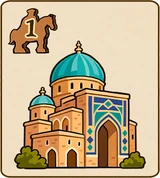
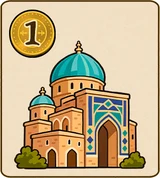
Rectors 5a/5b; A1 requires a played Book; Samarkand 1 coin, Kashgar 3 moves; swap Lisboa/Coimbra
Claude-Session: https://claude.ai/code/session_01SHozX5uoHGRuhfGKpzG4bC

Changed region(s): [[0.0312, 0.0281, 0.375, 0.3371]]

diff --git a/i18n.js b/i18n.js
@@ -18,12 +18,12 @@ const FR={
  CE_paris:'1 Livre par œuvre d\'art de ton type majoritaire',CE_cambridge:'2 pièces ou 2 influence, puis promotion payante',CE_oxford:'3 pièces ou 3 influence, puis promotion payante',
  CE_lisboa:'pioche 3 Étudiants, places-en 1 en Professeur',CE_coimbra:'active tous tes Professeurs d\'un type',CE_valladolid:'pioche 1 Livre',CE_salamanca:'pioche 2 Livres, puis défausses-en 1',CE_barcelona:'pioche 2 Livres',
  CE_heidelberg:'1 pièce ou 1 influence par personnage Bronze',CE_vienna:'2 pièces ou 2 influence par personnage Argent',CE_praha:'3 pièces ou 3 influence par personnage Or',
- CE_thessaloniki:'active tous tes Émérites',CE_constantinople:'rétrograde un Émérite pour 1 PV',CE_sale:'défausse un de tes Étudiants',CE_meknes:'active la capacité d\'un de tes Étudiants',CE_fes:'recrute n\'importe quel Étudiant',CE_samarkand:'1 déplacement',CE_kashgar:'2 déplacements',CE_beijing:'copie 2 Villes différentes (case 11 max.)',
+ CE_thessaloniki:'active tous tes Émérites',CE_constantinople:'rétrograde un Émérite pour 1 PV',CE_sale:'défausse un de tes Étudiants',CE_meknes:'active la capacité d\'un de tes Étudiants',CE_fes:'recrute n\'importe quel Étudiant',CE_samarkand:'1 pièce',CE_kashgar:'3 déplacements',CE_beijing:'copie 2 Villes différentes (case 11 max.)',
  R_1a:'Recruter un Étudiant avec une œuvre d\'art : +1 pièce et +1 influence',R_1b:'Recruter un Étudiant Bronze : +3 déplacements',
  R_2a:'Défausser un Livre donne 1 pièce + 1 influence + 1 déplacement à la place de son effet',R_2b:'Pioche 1 Livre. Tu peux dépenser des pièces comme de l\'influence et inversement',
  R_3a:'Atteindre une Ville : pioche 1 Livre',R_3b:'Compte comme un personnage supplémentaire du type et du niveau de ton choix, à tout moment selon tes besoins',
- R_4a:'Promotion : coût en pièces réduit de 2',R_4b:'Recrutement : coût en influence réduit de 2',
- O_A1:'2 personnages de chaque type',O_A2:'6 personnages du même type',O_B1:'1 parcours complété + 6 pièces + 6 influence',O_B2:'2 parcours complétés',
+ R_4a:'Promotion : coût en pièces réduit de 2',R_4b:'Recrutement : coût en influence réduit de 2',R_5a:'Prends gratuitement un Étudiant de la rangée : applique son effet immédiat, sans Activation ni Promotion',R_5b:'5 déplacements + 1 promotion (en payant son coût)',
+ O_A1:'1 Livre joué + 2 personnages de chaque type',O_A2:'6 personnages du même type',O_B1:'1 parcours complété + 6 pièces + 6 influence',O_B2:'2 parcours complétés',
  O_C1:'5 Professeurs',O_C2:'3 Émérites',O_D1:'5 œuvres d\'art différentes',O_D2:'7 œuvres d\'art',
  B_1:'1 Étudiant + 1 Professeur + 1 Émérite Artistes',B_2:'1 Étudiant + 1 Professeur + 1 Émérite Marchands',B_3:'1 Étudiant + 1 Professeur + 1 Émérite Nobles',B_4:'1 Étudiant + 1 Professeur + 1 Émérite Religieux',
  B_5:'1 Professeur de chaque type',B_6:'Franchir 5 Villes avec tes Voyageurs',B_7:'1 Professeur Argent + 1 Émérite Or',B_8:'1 Professeur Or + 1 Émérite Argent',
@@ -103,12 +103,12 @@ const EN={
  CE_paris:'1 Book per Work of Art of your most common type',CE_cambridge:'2 coins or 2 influence, then a paid promotion',CE_oxford:'3 coins or 3 influence, then a paid promotion',
  CE_lisboa:'draw 3 Students, place 1 as a Professor',CE_coimbra:'activate all your Professors of one type',CE_valladolid:'draw 1 Book',CE_salamanca:'draw 2 Books, then discard 1',CE_barcelona:'draw 2 Books',
  CE_heidelberg:'1 coin or 1 influence per Bronze character',CE_vienna:'2 coins or 2 influence per Silver character',CE_praha:'3 coins or 3 influence per Gold character',
- CE_thessaloniki:'activate all your Emeritus',CE_constantinople:'demote an Emeritus for 1 VP',CE_sale:'discard one of your Students',CE_meknes:'activate the ability of one of your Students',CE_fes:'hire any Student',CE_samarkand:'1 move',CE_kashgar:'2 moves',CE_beijing:'copy 2 different Cities (step 11 max.)',
+ CE_thessaloniki:'activate all your Emeritus',CE_constantinople:'demote an Emeritus for 1 VP',CE_sale:'discard one of your Students',CE_meknes:'activate the ability of one of your Students',CE_fes:'hire any Student',CE_samarkand:'1 coin',CE_kashgar:'3 moves',CE_beijing:'copy 2 different Cities (step 11 max.)',
  R_1a:'Hire a Student with a Work of Art: +1 coin and +1 influence',R_1b:'Hire a Bronze Student: +3 movements',
  R_2a:'Discarding a Book gives 1 coin + 1 influence + 1 movement instead of its effect',R_2b:'Draw 1 Book. You may spend coins as influence and vice versa',
  R_3a:'Reach a City: draw 1 Book',R_3b:'Counts as an extra character of the type and level of your choice, changing at any time as you need',
- R_4a:'Promotion: coin cost reduced by 2',R_4b:'Hiring: influence cost reduced by 2',
- O_A1:'2 characters of each type',O_A2:'6 characters of the same type',O_B1:'1 completed journey + 6 coins + 6 influence',O_B2:'2 completed journeys',
+ R_4a:'Promotion: coin cost reduced by 2',R_4b:'Hiring: influence cost reduced by 2',R_5a:'Take a Student from the row for free: apply its immediate effect, without Activation or Promotion',R_5b:'5 moves + 1 promotion (paying its cost)',
+ O_A1:'1 Book played + 2 characters of each type',O_A2:'6 characters of the same type',O_B1:'1 completed journey + 6 coins + 6 influence',O_B2:'2 completed journeys',
  O_C1:'5 Professors',O_C2:'3 Emeritus',O_D1:'5 different Works of Art',O_D2:'7 Works of Art',
  B_1:'1 Student + 1 Professor + 1 Emeritus, all Artists',B_2:'1 Student + 1 Professor + 1 Emeritus, all Merchants',B_3:'1 Student + 1 Professor + 1 Emeritus, all Nobles',B_4:'1 Student + 1 Professor + 1 Emeritus, all Religious',
  B_5:'1 Professor of each type',B_6:'Cross 5 Cities with your Travelers',B_7:'1 Silver Professor + 1 Gold Emeritus',B_8:'1 Gold Professor + 1 Silver Emeritus',
@@ -183,12 +183,12 @@ const IT={
  CE_paris:'1 Libro per ogni Opera d\'arte del tuo tipo più numeroso',CE_cambridge:'2 monete o 2 influenza, poi una promozione a pagamento',CE_oxford:'3 monete o 3 influenza, poi una promozione a pagamento',
  CE_lisboa:'pesca 3 Studenti, mettine 1 come Professore',CE_coimbra:'attiva tutti i tuoi Professori di un tipo',CE_valladolid:'pesca 1 Libro',CE_salamanca:'pesca 2 Libri, poi scartane 1',CE_barcelona:'pesca 2 Libri',
  CE_heidelberg:'1 moneta o 1 influenza per personaggio di Bronzo',CE_vienna:'2 monete o 2 influenza per personaggio d\'Argento',CE_praha:'3 monete o 3 influenza per personaggio d\'Oro',
- CE_thessaloniki:'attiva tutti i tuoi Emeriti',CE_constantinople:'retrocedi un Emerito per 1 PV',CE_sale:'scarta uno dei tuoi Studenti',CE_meknes:'attiva l\'abilità di uno dei tuoi Studenti',CE_fes:'assumi uno Studente qualsiasi',CE_samarkand:'1 spostamento',CE_kashgar:'2 spostamenti',CE_beijing:'copia 2 Città diverse (casella 11 max.)',
+ CE_thessaloniki:'attiva tutti i tuoi Emeriti',CE_constantinople:'retrocedi un Emerito per 1 PV',CE_sale:'scarta uno dei tuoi Studenti',CE_meknes:'attiva l\'abilità di uno dei tuoi Studenti',CE_fes:'assumi uno Studente qualsiasi',CE_samarkand:'1 moneta',CE_kashgar:'3 spostamenti',CE_beijing:'copia 2 Città diverse (casella 11 max.)',
  R_1a:'Assumi uno Studente con un\'Opera d\'arte: +1 moneta e +1 influenza',R_1b:'Assumi uno Studente di Bronzo: +3 movimenti',
  R_2a:'Scartare un Libro dà 1 moneta + 1 influenza + 1 movimento invece del suo effetto',R_2b:'Pesca 1 Libro. Puoi spendere monete come influenza e viceversa',
  R_3a:'Raggiungi una Città: pesca 1 Libro',R_3b:'Conta come un personaggio extra del tipo e del livello che preferisci, in qualsiasi momento secondo le necessità',
- R_4a:'Promozione: costo in monete ridotto di 2',R_4b:'Assunzione: costo in influenza ridotto di 2',
- O_A1:'2 personaggi di ogni tipo',O_A2:'6 personaggi dello stesso tipo',O_B1:'1 viaggio completato + 6 monete + 6 influenza',O_B2:'2 viaggi completati',
+ R_4a:'Promozione: costo in monete ridotto di 2',R_4b:'Assunzione: costo in influenza ridotto di 2',R_5a:'Prendi gratis uno Studente dalla fila: applica il suo effetto immediato, senza Attivazione né Promozione',R_5b:'5 spostamenti + 1 promozione (pagandone il costo)',
+ O_A1:'1 Libro giocato + 2 personaggi di ogni tipo',O_A2:'6 personaggi dello stesso tipo',O_B1:'1 viaggio completato + 6 monete + 6 influenza',O_B2:'2 viaggi completati',
  O_C1:'5 Professori',O_C2:'3 Emeriti',O_D1:'5 Opere d\'arte diverse',O_D2:'7 Opere d\'arte',
  B_1:'1 Studente + 1 Professore + 1 Emerito Artisti',B_2:'1 Studente + 1 Professore + 1 Emerito Mercanti',B_3:'1 Studente + 1 Professore + 1 Emerito Nobili',B_4:'1 Studente + 1 Professore + 1 Emerito Religiosi',
  B_5:'1 Professore di ogni tipo',B_6:'Attraversa 5 Città con i tuoi Viaggiatori',B_7:'1 Professore d\'Argento + 1 Emerito d\'Oro',B_8:'1 Professore d\'Oro + 1 Emerito d\'Argento',

diff --git a/engine.js b/engine.js
@@ -115,7 +115,7 @@ function bookOk(s,p,bid){
 function objOk(s,p,tile){
   const pl=P(s,p);
   switch(tile){
-    case 'A1': return D.TYPES.reduce((a,t)=>a+Math.max(0,2-countTypeRaw(pl,t)),0)<=(wild(pl)?1:0);
+    case 'A1': return pl.played.length>0 && D.TYPES.reduce((a,t)=>a+Math.max(0,2-countTypeRaw(pl,t)),0)<=(wild(pl)?1:0);
     case 'A2': return D.TYPES.some(t=>countType(pl,t)>=6);
     case 'B1': return journeys(pl)>=1 && pl.coins>=6 && pl.infl>=6;
     case 'B2': return journeys(pl)>=2;
@@ -139,7 +139,7 @@ function needs(s,p){
 function objProgress(s,p,tile){
   const pl=P(s,p), cap=x=>Math.max(0,Math.min(1,x));
   switch(tile){
-    case 'A1': return Math.min(1,(D.TYPES.reduce((a,t)=>a+Math.min(2,countTypeRaw(pl,t)),0)+(wild(pl)?1:0))/8);
+    case 'A1': return Math.min(1,(D.TYPES.reduce((a,t)=>a+Math.min(2,countTypeRaw(pl,t)),0)+(wild(pl)?1:0)+(pl.played.length?1:0))/9);
     case 'A2': return cap(Math.max(...D.TYPES.map(t=>countType(pl,t)))/6);
     case 'B1': return cap(Math.max(...pl.trav)/12)*0.5+cap(Math.min(pl.coins,6)/6)*0.25+cap(Math.min(pl.infl,6)/6)*0.25;
     case 'B2': return cap(pl.trav.slice().sort((a,b)=>b-a).slice(0,2).reduce((a,b)=>a+b,0)/24);
@@ -277,7 +277,7 @@ function step(s,t){
     const cand=pl.students.map((co,k)=>[co,k]).filter(([co])=>co.uid===undefined||co.uid!==s.turn.hired);
     if(!cand.length){ abortCtx(s,t.ctx); log(s,M('log_noElim',pn(s,p))); return; }
     ask(s,p,'elim',M('q_elim',pn(s,p)),cand.map(([co,k])=>({label:M('o_elim',cn(co.id)),idx:k,cards:[co.id]})).concat([{label:M('o_noElim'),pass:1}]),t); return; }
-  case 'hire': return hire(s,p,t.slot,t.free);
+  case 'hire': return hire(s,p,t.slot,t.free,t.noAct);
   case 'choice': {
     const c=CARD[t.id]; if(!c.act) return;
     if(c.act!=='any' && !promoOptions(s,p).length){ s.stack.push({k:'activate',p,type:c.act}); pl.nAct=(pl.nAct||0)+1; return; }
@@ -370,7 +370,7 @@ function resolve(s,pd,o){
   case 'reorgPos': { const r=pl[t.row]; const [co]=r.splice(t.idx,1); r.splice(o.pos,0,co); log(s,M('log_reorg',pl.name,cn(co.id),o.pos+1)); return; }
   case 'promo': if(!o.pass) doPromo(s,p,o.to,o.idx,false); return;
   case 'freePromo': doPromo(s,p,'S',o.idx,true); return;
-  case 'take': s.stack.push({k:'hire',p,slot:o.slot,free:true}); return;
+  case 'take': s.stack.push({k:'hire',p,slot:o.slot,free:true,noAct:!!t.noAct}); return;
   case 'elim': { if(o.pass){ abortCtx(s,t.ctx); return; } const [co]=pl.students.splice(o.idx,1); log(s,M('log_elim',pl.name,cn(co.id))); return; }
   case 'choice':
     if(o.act){ s.stack.push({k:'activate',p,type:o.act}); pl.nAct=(pl.nAct||0)+1; }
@@ -403,8 +403,8 @@ function cityEff(s,p,key){
   const pl=P(s,p);
   const push=e=>pushSeq(s,p,e);
   switch(key){
-    case 'samarkand': s.stack.push({k:'move',p,n:1}); break;
-    case 'kashgar': s.stack.push({k:'move',p,n:2}); break;
+    case 'samarkand': pl.coins++; gain(pl,'c',1); break;
+    case 'kashgar': s.stack.push({k:'move',p,n:3}); break;
     case 'beijing': s.stack.push({k:'beijing',p,left:2,used:[]}); break;
     case 'pisa': push([{ci:1}]); break;
     case 'padova': s.stack.push({k:'reorg',p}); break;
@@ -445,10 +445,12 @@ function doPromo(s,p,to,idx,free){
     if(!free) pay(pl,Math.max(0,idx+1-red),8); pl.profs.splice(idx,1); pl.rector={card:co,tile,type:ty}; s.rectSlots[ty]=null;
     log(s,M('log_rector',pl.name,cn(co.id),M('R_'+tile)));
     if(tile==='2b') drawBooks(s,p,1);
+    if(tile==='5a') s.stack.push({k:'take',p,max:6,noAct:true});
+    if(tile==='5b'){ s.stack.push({k:'promo',p}); s.stack.push({k:'move',p,n:5}); }
   }
 }
 
-function hire(s,p,slot,free){
+function hire(s,p,slot,free,noAct){
   const pl=P(s,p), co=s.row[slot]; if(!co) return;
   const cost=hireCost(s,p,slot,free);
   pay(pl,0,cost);
@@ -462,7 +464,7 @@ function hire(s,p,slot,free){
   if(hasRect(pl,'1a') && cardWoa(co).length){ pl.coins++; pl.infl++; gain(pl,'c',1); gain(pl,'i',1); }
   // ordre : bonus d'embauche → choix Activation/Promotion → remplissage de la rangée
   s.stack.push({k:'refill'});
-  s.stack.push({k:'choice',p,id:co.id});
+  if(!noAct) s.stack.push({k:'choice',p,id:co.id});
   if(hasRect(pl,'1b') && c.lvl===1) s.stack.push({k:'move',p,n:3});
   pushSeq(s,p,c.H);
 }

diff --git a/data.js b/data.js
@@ -133,9 +133,11 @@ const rectors=[
  {id:'3b',txt:'Compte comme un personnage supplémentaire du type et du niveau de ton choix'},
  {id:'4a',txt:'Promotion : coût en pièces réduit de 2'},
  {id:'4b',txt:'Embauche : coût en influence réduit de 2'},
+ {id:'5a',txt:'Prends gratuitement un Étudiant de la rangée : applique son effet immédiat, sans Activation ni Promotion'},
+ {id:'5b',txt:'5 déplacements + 1 promotion (en payant son coût)'},
 ];
 const objectives={
- A1:'2 personnages de chaque type', A2:'6 personnages du même type',
+ A1:'1 Livre joué + 2 personnages de chaque type', A2:'6 personnages du même type',
  B1:'1 parcours complété + 6 pièces + 6 influence', B2:'2 parcours complétés',
  C1:'5 Professeurs', C2:'3 Émérites',
  D1:'5 œuvres d\'art différentes', D2:'7 œuvres d\'art',
@@ -144,11 +146,11 @@ const countries={
  ITA:{name:'Italie',img:'ita',cities:[[4,'pisa','Pise','1 pièce ou 1 influence'],[8,'padova','Padoue','Réorganiser une carte'],[12,'bologna','Bologne','Jeton Bologne (1 PV)']]},
  FRA:{name:'France',img:'fra',cities:[[3,'toulouse','Toulouse','Gagner une Lettre'],[7,'avignon','Avignon','1 pièce ou 1 influence par œuvre différente'],[12,'paris','Paris','1 Livre par œuvre de ton type majoritaire']]},
  ENG:{name:'Angleterre',img:'eng',cities:[[6,'cambridge','Cambridge','2 pièces ou 2 influence, puis promotion payante'],[12,'oxford','Oxford','3 pièces ou 3 influence, puis promotion payante']]},
- POR:{name:'Portugal',img:'por',cities:[[6,'lisboa','Lisbonne','Pioche 3 Étudiants, place-en 1 en Professeur'],[12,'coimbra','Coimbra','Active tous les Professeurs d\'un type']]},
+ POR:{name:'Portugal',img:'por',cities:[[6,'coimbra','Coimbra','Active tous les Professeurs d\'un type'],[12,'lisboa','Lisbonne','Pioche 3 Étudiants, place-en 1 en Professeur']]},
  SPA:{name:'Espagne',img:'spa',cities:[[3,'valladolid','Valladolid','Pioche 1 Livre'],[7,'salamanca','Salamanque','Pioche 2 Livres, défausse-en 1'],[12,'barcelona','Barcelone','Pioche 2 Livres']]},
  GER:{name:'Europe centrale',img:'ger',cities:[[4,'heidelberg','Heidelberg','1 pièce/influence par Bronze'],[8,'vienna','Vienne','2 pièces/influence par Argent'],[12,'praha','Prague','3 pièces/influence par Or']]},
  BYZ:{name:'Empire byzantin',img:'byz',goodie:true,cities:[[6,'thessaloniki','Thessalonique','Active tous tes Émérites'],[12,'constantinople','Constantinople','Rétrograde un Émérite pour 1 PV']]},
- SLK:{name:'Route de la soie',img:'slk',cities:[[3,'samarkand','Samarcande','1 déplacement'],[7,'kashgar','Kachgar','2 déplacements'],[12,'beijing','Pékin','Copie 2 Villes différentes (case 11 max.)']]},
+ SLK:{name:'Route de la soie',img:'slk',cities:[[3,'samarkand','Samarcande','1 pièce'],[7,'kashgar','Kachgar','3 déplacements'],[12,'beijing','Pékin','Copie 2 Villes différentes (case 11 max.)']]},
  MOR:{name:'Maroc',img:'mor',goodie:true,cities:[[4,'sale','Salé','Défausse un de tes Étudiants'],[8,'meknes','Meknès','Active la capacité d\'un de tes Étudiants'],[12,'fes','Fès','Embauche n\'importe quel Étudiant']]},
 };
 const letters=[{id:'c2',g:[{c:2}]},{id:'i2',g:[{i:2}]},{id:'book',g:[{b:1}]},{id:'promo',g:[{p:1}]},{id:'mv2',g:[{t:2}]},
